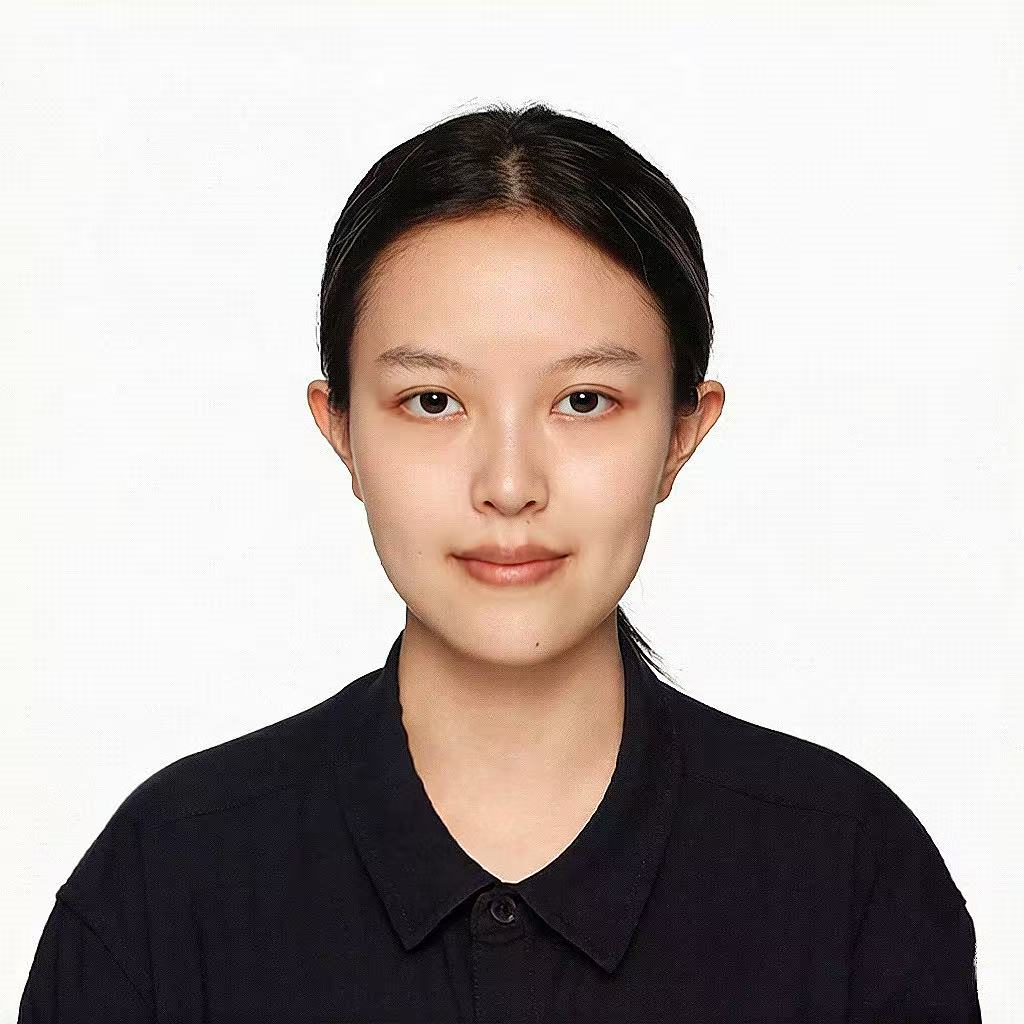
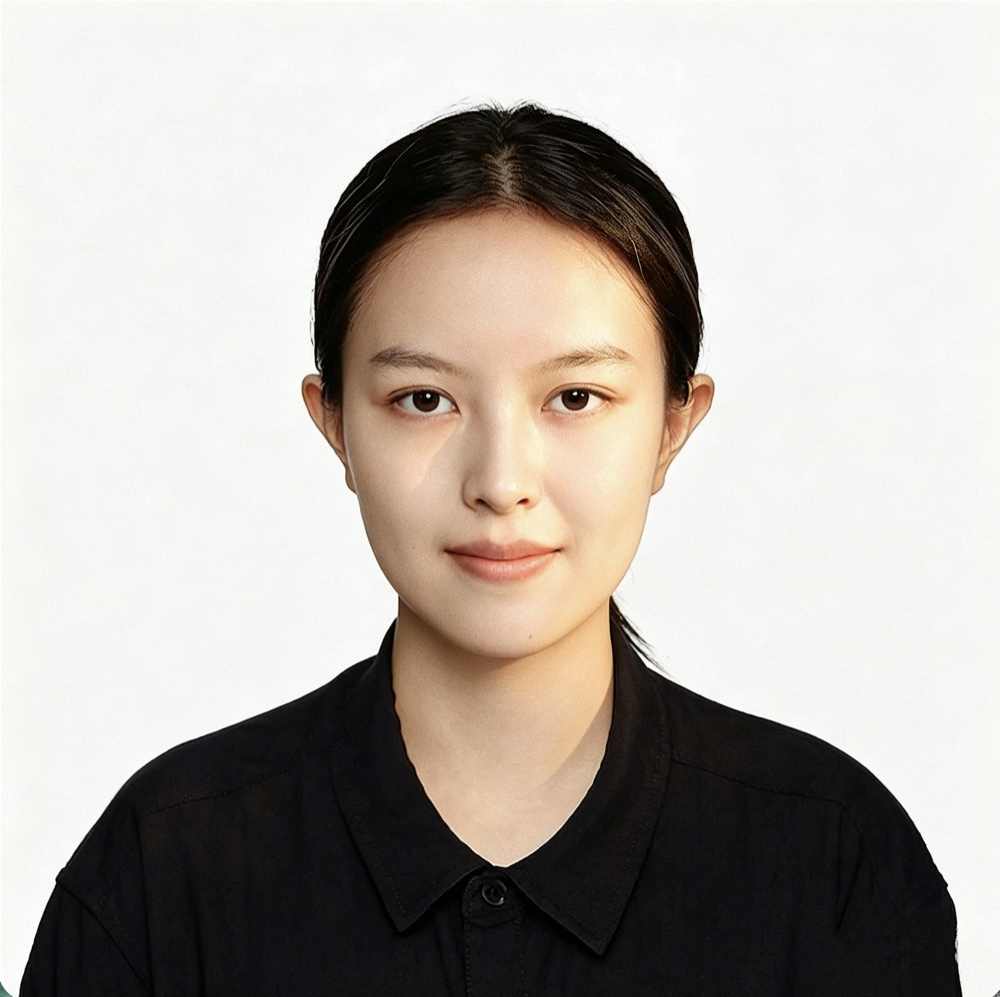
P01 个人简介：更换证件照、照片放大 112→200px、全页字号整体放大

diff --git a/index.html b/index.html
@@ -293,78 +293,78 @@
       <div class="cols" style="flex:1;gap:16px;min-height:0">
         <!-- 左栏：基本信息 + 教育背景 -->
         <div class="col" style="flex:3;gap:12px">
-          <div class="card" style="flex:none;padding:20px 24px;display:flex;flex-direction:row;align-items:center;gap:20px">
-            <img src="profile.jpg" alt="张卓涵" style="width:112px;height:112px;flex:none;border-radius:13px;object-fit:cover;box-shadow:0 4px 16px rgba(0,82,217,.16)">
+          <div class="card" style="flex:none;padding:20px 24px;display:flex;flex-direction:row;align-items:center;gap:22px">
+            <img src="profile.jpg" alt="张卓涵" style="width:200px;height:200px;flex:none;border-radius:18px;object-fit:cover;box-shadow:0 4px 16px rgba(0,82,217,.16)">
             <div style="flex:1;min-width:0;display:flex;flex-direction:column;gap:9px">
               <div style="display:flex;align-items:baseline;gap:12px">
-                <span style="font-size:12.5px;color:var(--gray);flex:none;width:38px">姓名</span>
-                <span style="font-size:16px;color:var(--dark);font-weight:700">张卓涵</span>
+                <span style="font-size:15.5px;color:var(--gray);flex:none;width:48px">姓名</span>
+                <span style="font-size:23px;color:var(--dark);font-weight:700">张卓涵</span>
               </div>
               <div style="display:flex;align-items:baseline;gap:12px">
-                <span style="font-size:12.5px;color:var(--gray);flex:none;width:38px">部门</span>
-                <span style="font-size:14.5px;color:var(--dark)">CSIG 智慧出行 · 解决方案二中心</span>
+                <span style="font-size:15.5px;color:var(--gray);flex:none;width:48px">部门</span>
+                <span style="font-size:18.5px;color:var(--dark)">CSIG 智慧出行 · 解决方案二中心</span>
               </div>
               <div style="display:flex;align-items:baseline;gap:12px">
-                <span style="font-size:12.5px;color:var(--gray);flex:none;width:38px">岗位</span>
-                <span style="font-size:14.5px;color:var(--dark)">售前解决方案实习生</span>
+                <span style="font-size:15.5px;color:var(--gray);flex:none;width:48px">岗位</span>
+                <span style="font-size:18.5px;color:var(--dark)">售前解决方案实习生</span>
               </div>
               <div style="display:flex;align-items:baseline;gap:12px">
-                <span style="font-size:12.5px;color:var(--gray);flex:none;width:38px">驻点</span>
-                <span style="font-size:14.5px;color:var(--dark)">外企项目组 ｜ AI 与云产品</span>
+                <span style="font-size:15.5px;color:var(--gray);flex:none;width:48px">驻点</span>
+                <span style="font-size:18.5px;color:var(--dark)">外企项目组 ｜ AI 与云产品</span>
               </div>
               <div style="display:flex;align-items:baseline;gap:12px">
-                <span style="font-size:12.5px;color:var(--gray);flex:none;width:38px">导师</span>
-                <span style="font-size:14.5px;color:var(--dark)">丁亚奇</span>
+                <span style="font-size:15.5px;color:var(--gray);flex:none;width:48px">导师</span>
+                <span style="font-size:18.5px;color:var(--dark)">丁亚奇</span>
               </div>
             </div>
           </div>
 
           <div class="card" style="flex:1;padding:18px 24px;display:flex;flex-direction:column;gap:11px;justify-content:center">
-            <div style="font-size:15.5px;font-weight:800;color:var(--blue)">教育背景</div>
+            <div style="font-size:19.5px;font-weight:800;color:var(--blue)">教育背景</div>
             <div style="display:flex;flex-direction:column;gap:5px">
-              <div style="font-size:15.5px;font-weight:800;color:var(--dark)">加州大学洛杉矶分校 UCLA</div>
-              <div style="font-size:14px;color:var(--purple);font-weight:700">认知科学（计算方向）· 辅修数字人文</div>
+              <div style="font-size:21.5px;font-weight:800;color:var(--dark)">加州大学洛杉矶分校 UCLA</div>
+              <div style="font-size:18px;color:var(--purple);font-weight:700">认知科学（计算方向）· 辅修数字人文</div>
             </div>
-            <p style="font-size:12.5px;color:var(--gray);line-height:1.55">算法与复杂性、人工智能、认知心理学、用户体验、行为神经科学 —— <b style="color:var(--dark)">既学习技术实现，也学习「人怎么理解信息」</b>。</p>
+            <p style="font-size:16px;color:var(--gray);line-height:1.6">算法与复杂性、人工智能、认知心理学、用户体验、行为神经科学 —— <b style="color:var(--dark)">既学习技术实现，也学习「人怎么理解信息」</b>。</p>
           </div>
         </div>
 
         <!-- 右栏：岗位定位 + 三条职责 + 过往沉淀 -->
         <div class="col" style="flex:4;gap:12px">
           <div class="card" style="flex:none;padding:17px 24px;background:var(--grad)">
-            <div style="font-size:12.5px;font-weight:800;color:#fff;opacity:.9;margin-bottom:7px">岗位定位</div>
-            <p style="font-size:16px;color:#fff;line-height:1.55">售前解决方案 = <b style="font-weight:800">连接产品、销售与客户的桥梁</b> —— 把 AI 与云的产品能力，翻译成客户听得懂、能落地、能采购的价值。</p>
+            <div style="font-size:15px;font-weight:800;color:#fff;opacity:.9;margin-bottom:9px">岗位定位</div>
+            <p style="font-size:21px;color:#fff;line-height:1.55">售前解决方案 = <b style="font-weight:800">连接产品、销售与客户的桥梁</b> —— 把 AI 与云的产品能力，翻译成客户听得懂、能落地、能采购的价值。</p>
           </div>
 
           <div class="card" style="flex:none;padding:16px 24px;display:flex;flex-direction:column;gap:9px">
             <div style="display:flex;gap:11px;align-items:flex-start">
-              <span style="font-size:10.5px;font-weight:800;color:#fff;background:var(--blue);border-radius:6px;padding:3px 8px;flex:none;margin-top:2px">01</span>
-              <p style="font-size:13.5px;color:var(--gray);line-height:1.5"><b style="color:var(--dark)">产品能力</b>：技术学习，商业场景理解，PoC。</p>
+              <span style="font-size:13px;font-weight:800;color:#fff;background:var(--blue);border-radius:6px;padding:4px 10px;flex:none;margin-top:2px">01</span>
+              <p style="font-size:17.5px;color:var(--gray);line-height:1.55"><b style="color:var(--dark)">产品能力</b>：技术学习，商业场景理解，PoC。</p>
             </div>
             <div style="display:flex;gap:11px;align-items:flex-start">
-              <span style="font-size:10.5px;font-weight:800;color:#fff;background:var(--blue);border-radius:6px;padding:3px 8px;flex:none;margin-top:2px">02</span>
-              <p style="font-size:13.5px;color:var(--gray);line-height:1.5"><b style="color:var(--dark)">需求翻译成方案</b>：从客户交流与招标书里读出真需求，产出方案。</p>
+              <span style="font-size:13px;font-weight:800;color:#fff;background:var(--blue);border-radius:6px;padding:4px 10px;flex:none;margin-top:2px">02</span>
+              <p style="font-size:17.5px;color:var(--gray);line-height:1.55"><b style="color:var(--dark)">需求翻译成方案</b>：从客户交流与招标书里读出真需求，产出方案。</p>
             </div>
             <div style="display:flex;gap:11px;align-items:flex-start">
-              <span style="font-size:10.5px;font-weight:800;color:#fff;background:var(--blue);border-radius:6px;padding:3px 8px;flex:none;margin-top:2px">03</span>
-              <p style="font-size:13.5px;color:var(--gray);line-height:1.5"><b style="color:var(--dark)">团队信息同步</b>：铁三角合作，为团队与客户对齐信息。</p>
+              <span style="font-size:13px;font-weight:800;color:#fff;background:var(--blue);border-radius:6px;padding:4px 10px;flex:none;margin-top:2px">03</span>
+              <p style="font-size:17.5px;color:var(--gray);line-height:1.55"><b style="color:var(--dark)">团队信息同步</b>：铁三角合作，为团队与客户对齐信息。</p>
             </div>
           </div>
 
           <div class="card" style="flex:1;padding:16px 24px;display:flex;flex-direction:column;gap:10px;min-height:0;justify-content:center">
-            <div style="font-size:15.5px;font-weight:800;color:var(--blue)">过往沉淀</div>
+            <div style="font-size:19.5px;font-weight:800;color:var(--blue)">过往沉淀</div>
             <div style="display:flex;flex-direction:column;gap:8px">
               <div style="display:flex;gap:10px;align-items:flex-start">
-                <span style="font-size:10px;font-weight:800;color:var(--blue);background:var(--bg2);border-radius:5px;padding:3px 7px;flex:none;margin-top:1px;letter-spacing:.3px">AI 售前</span>
-                <p style="font-size:12.5px;color:var(--gray);line-height:1.5">企业级智能体落地：主导「场景地图」需求提炼框架与 AI 就绪度评估体系，在商业地产、快消、传媒等多个客户项目中验证。</p>
+                <span style="font-size:12.5px;font-weight:800;color:var(--blue);background:var(--bg2);border-radius:5px;padding:4px 9px;flex:none;margin-top:1px;letter-spacing:.3px">AI 售前</span>
+                <p style="font-size:15.5px;color:var(--gray);line-height:1.55">企业级智能体落地：主导「场景地图」需求提炼框架与 AI 就绪度评估体系，在商业地产、快消、传媒等多个客户项目中验证。</p>
               </div>
               <div style="display:flex;gap:10px;align-items:flex-start">
-                <span style="font-size:10px;font-weight:800;color:var(--cyan);background:var(--bg2);border-radius:5px;padding:3px 7px;flex:none;margin-top:1px;letter-spacing:.3px">AI 产品</span>
-                <p style="font-size:12.5px;color:var(--gray);line-height:1.5">从 0 到 1 做 AI 客服机器人（BERT 情感与意图识别 · AWS SageMaker）；用机器学习做过脑成像诊断预测、教育结构变化分析。</p>
+                <span style="font-size:12.5px;font-weight:800;color:var(--cyan);background:var(--bg2);border-radius:5px;padding:4px 9px;flex:none;margin-top:1px;letter-spacing:.3px">AI 产品</span>
+                <p style="font-size:15.5px;color:var(--gray);line-height:1.55">从 0 到 1 做 AI 客服机器人（BERT 情感与意图识别 · AWS SageMaker）；用机器学习做过脑成像诊断预测、教育结构变化分析。</p>
               </div>
               <div style="display:flex;gap:10px;align-items:flex-start">
-                <span style="font-size:10px;font-weight:800;color:var(--purple);background:var(--bg2);border-radius:5px;padding:3px 7px;flex:none;margin-top:1px;letter-spacing:.3px">人文</span>
-                <p style="font-size:12.5px;color:var(--gray);line-height:1.5">严复研究，古琴地图与谱频分析，古罗马建模：<b style="color:var(--dark)">把洞察可视化，数据结构化</b>。</p>
+                <span style="font-size:12.5px;font-weight:800;color:var(--purple);background:var(--bg2);border-radius:5px;padding:4px 9px;flex:none;margin-top:1px;letter-spacing:.3px">人文</span>
+                <p style="font-size:15.5px;color:var(--gray);line-height:1.55">严复研究，古琴地图与谱频分析，古罗马建模：<b style="color:var(--dark)">把洞察可视化，数据结构化</b>。</p>
               </div>
             </div>
             <div class="chips" style="margin-top:2px">
